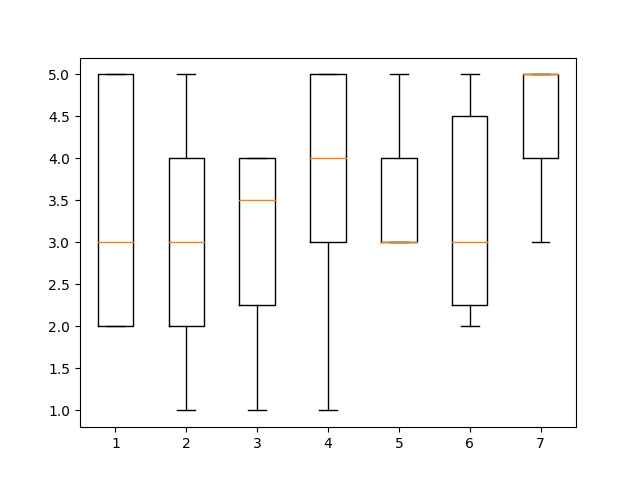
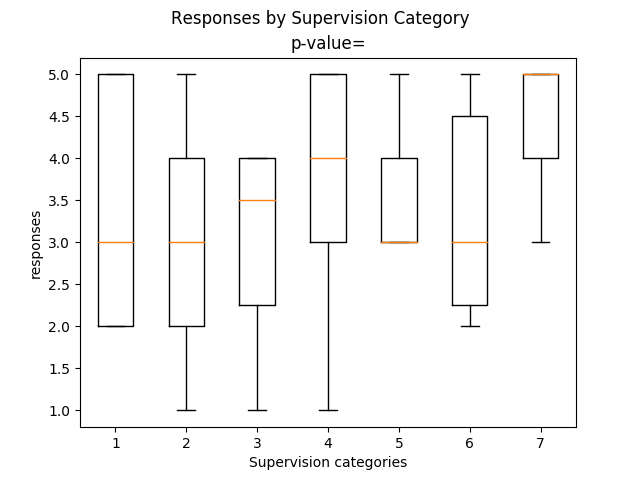
added plot labels

Changed region(s): [[0.25, 0.0312, 0.75, 0.125], [0.375, 0.9375, 0.625, 1.0], [0.0312, 0.4375, 0.0625, 0.5938]]

diff --git a/question_2_addendum.py b/question_2_addendum.py
@@ -82,6 +82,10 @@ def question2add(df, sup_list):
 
  
 	_ = plt.boxplot([group1, group2, group3, group4, group5, group6, group7])
+	_ = plt.suptitle('Responses by Supervision Category')
+	_ = plt.title('p-value=')
+	_ = plt.xlabel('Supervision categories')
+	_ = plt.ylabel('responses')
 	_ = plt.savefig('supervision_categories.png')
 	_ = plt.show()
 
